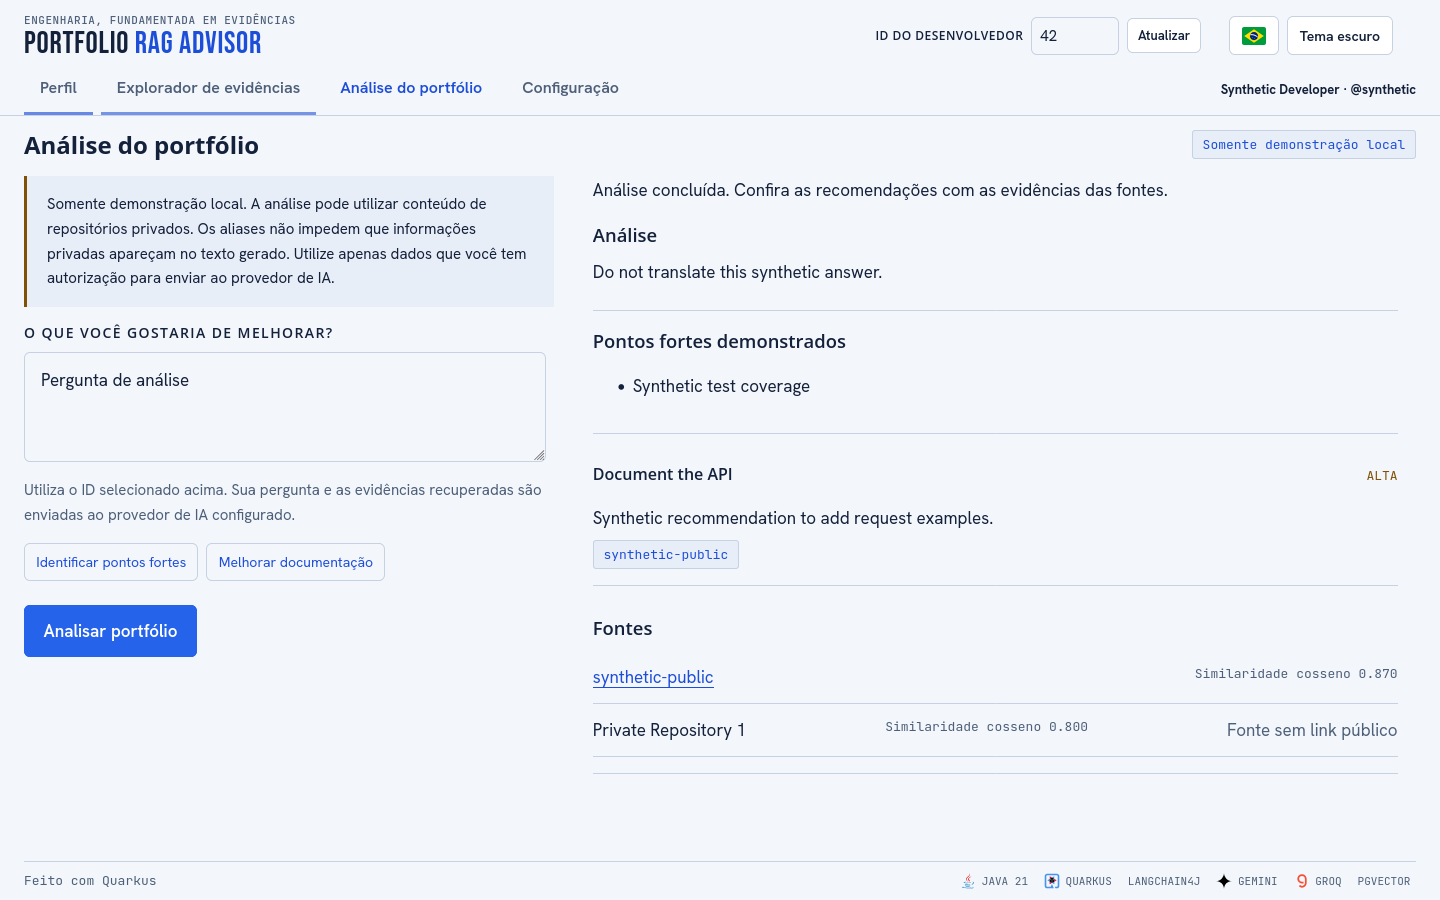
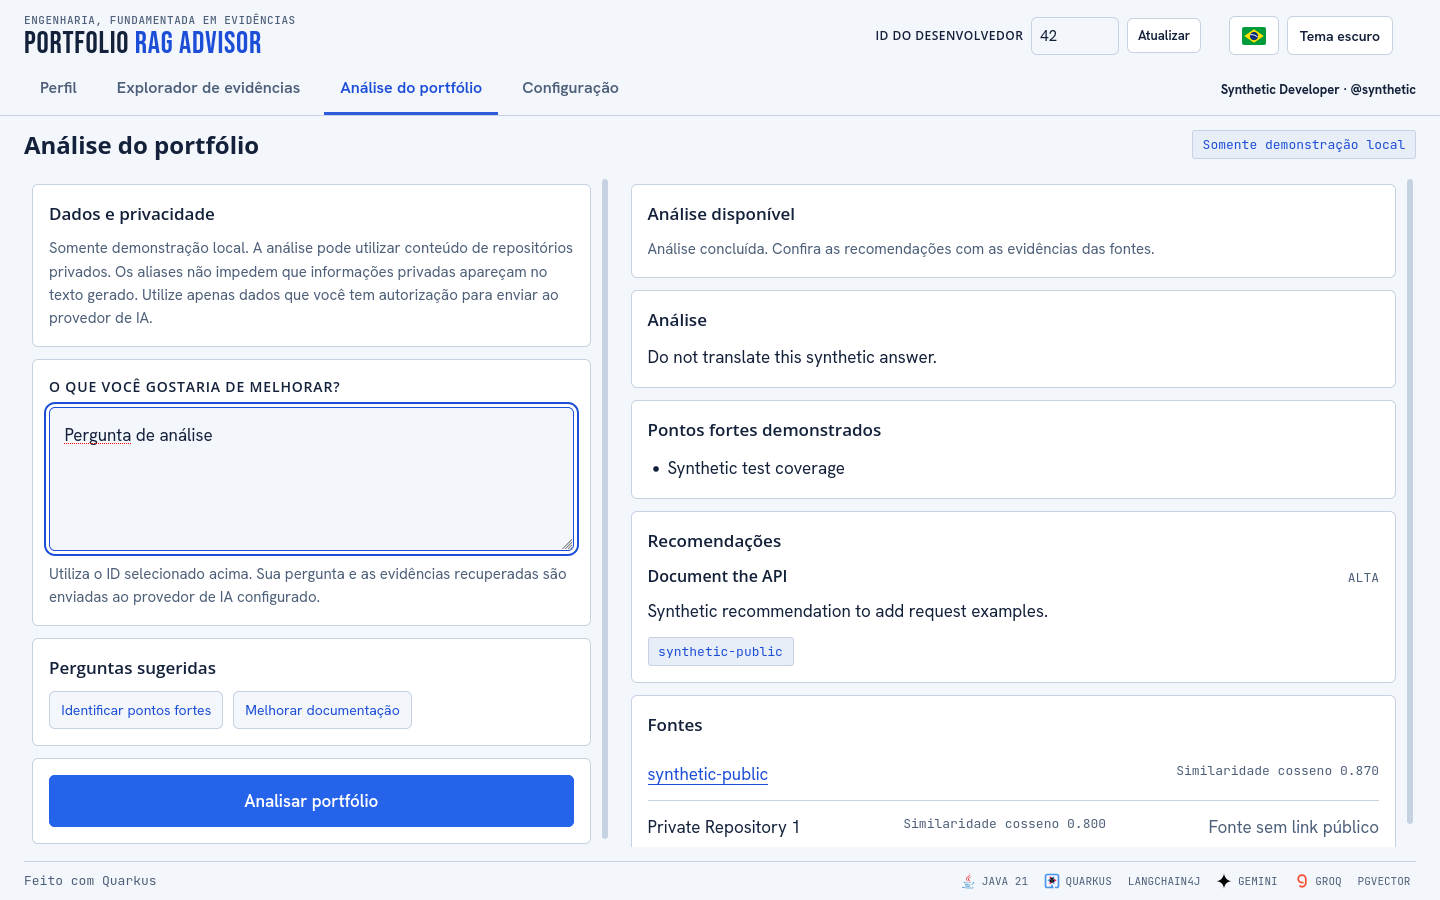
test(ui): verify analysis cards states and field boundaries

diff --git a/src/test/java/dev/erickmurakami/portfolio/interfaces/rest/PortfolioPageResourceTest.java b/src/test/java/dev/erickmurakami/portfolio/interfaces/rest/PortfolioPageResourceTest.java
@@ -35,6 +35,11 @@ class PortfolioPageResourceTest {
         assertTrue(html.contains("id=\"advisor-result\" aria-busy=\"false\"></div>"));
         assertFalse(html.contains("Advisor is unavailable in this environment"));
         assertFalse(html.contains("Private Repository 1"));
+        assertTrue(html.contains("id=\"advisor-state\""));
+        assertTrue(html.contains("class=\"advisor-card advisor-question-card\""));
+        assertTrue(html.contains("aria-describedby=\"advisor-help\""));
+        assertTrue(html.contains("id=\"advisor-suggestions-title\""));
+        assertTrue(html.contains("id=\"advisor-progress\""));
     }
 
     @Test

diff --git a/README.md b/README.md
@@ -269,3 +269,31 @@ silently discard the root design tokens.
 ![Advisor with a synthetic answer](docs/images/advisor-analysis-pt.png)
 
 ![Profile in dark theme](docs/images/profile-dark-pt.png)
+
+
+## Analysis workspace
+
+The Portfolio Advisor keeps its two desktop columns, with separate cards for the
+local-data notice, question, suggestions and primary action. The result column has
+an explicit status card and content-sized cards for the answer, strengths,
+recommendations and sources. Loading uses an indeterminate progress indicator;
+no confidence scores or completion percentage are invented. On small screens,
+the cards stack and allow document scrolling.
+
+The analysis scrollers reserve room around focused elements. The browser QA checks
+all four computed border widths/styles in normal, hover and keyboard-focus states,
+and verifies that the complete focus outline fits inside both its card and scroll
+panel. It checks the CTA is visible at 1440×900, no desktop document scrolling at
+1024×600, stable header bounds across tabs, and idle/changed/loading/complete/empty/
+error states. Questions and results persist across PT/EN and tab changes. All QA
+analysis content is synthetic and no AI provider is called.
+
+![Analysis ready to receive a question](docs/images/advisor-idle.png)
+
+![Analysis in progress](docs/images/advisor-loading.png)
+
+![Analysis cards in dark theme](docs/images/advisor-analysis-dark-pt.png)
+
+![Status after changing the developer](docs/images/advisor-empty.png)
+
+<img src="docs/images/advisor-mobile.png" alt="Analysis cards on a small screen, with a complete textarea focus border" width="390">
